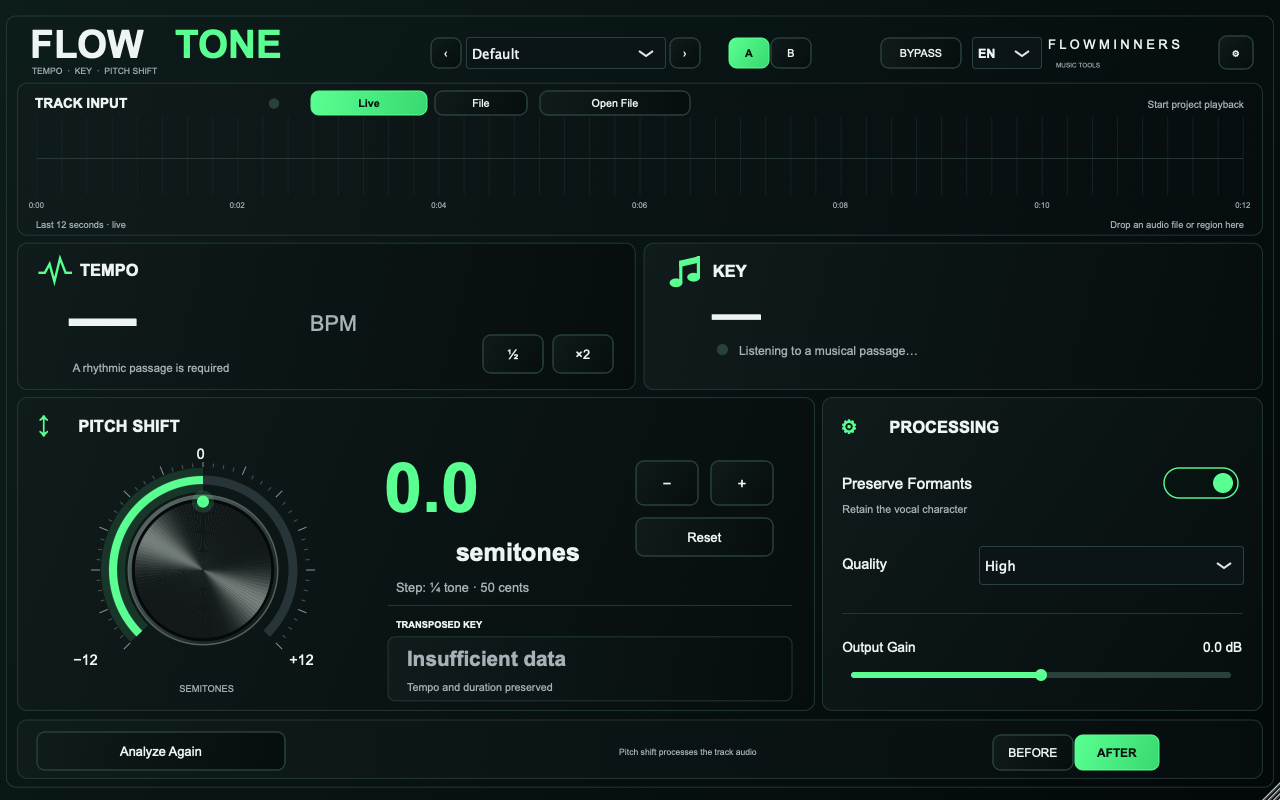
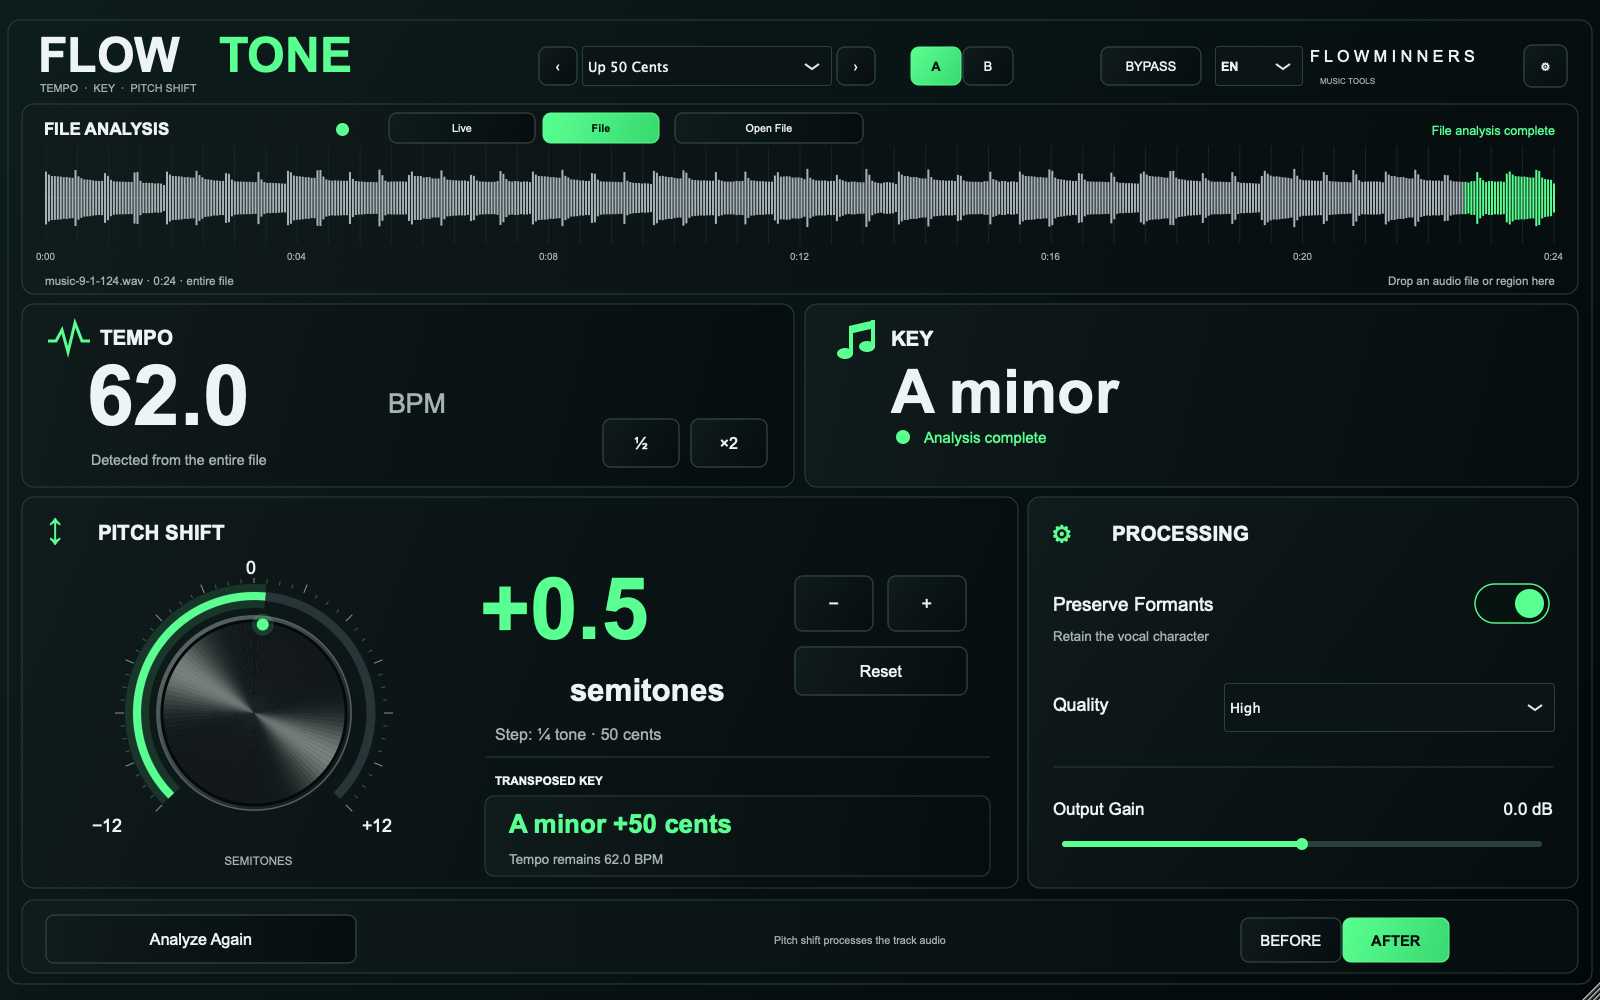
Document bilingual release validation and actual interface layouts

diff --git a/docs/localisation/TESTING.md b/docs/localisation/TESTING.md
@@ -1,0 +1,19 @@
+# FLOWTONE 0.4.0 verification
+
+Compiled source commit: `75e5b6a224779dd9261080db4609a68ae7610df1`. JUCE: `454fe891acc8204f99f4ef1e3a28c84b1a4da145`. Later documentation and installer repackaging commits do not change the compiled plug-in sources.
+
+| Check | Russian | English |
+|---|---|---|
+| Full local processor/analysis regression | PASS | PASS |
+| [Independent macOS CI](https://github.com/Abynarc/FLOWTONE/actions/runs/41633816387) | PASS | PASS |
+| [Windows x64 CI](https://github.com/Abynarc/FLOWTONE/actions/runs/41633816475) | PASS | PASS |
+
+UI checks exercise the actual dropdown in both directions, independent instances, no processing-parameter changes, translated controls/menus/tooltips, 1000/1280/1600-pixel layouts, editor recreation, state loading with an open editor, and old projects without a language property. Catalog coverage: 97 entries. Switching language retains completed file analysis, source selection and processing settings. RU/EN Windows screenshots were inspected.
+
+The processor suite covers pitch/duration/stereo preservation, quality/formant modes, quality transitions, automation, latency-aligned host bypass, variable blocks, real-time allocation guards, A/B and state. Analysis tests cover live/file sources, file formats, cache/repeat/cancellation, retained streams, long intros/outros, ambiguous/variable tempo, 32 rhythmic stress cases and source changes. Worker creation/destruction stress passed 10,000 cycles in each CI language run.
+
+macOS PKG: arm64 + x86_64, minimum macOS 12. Package expansion, signed-payload hashes, ad-hoc signature, install/upgrade scripts on an isolated volume, system and per-user backups, and corrupted-payload rejection passed. The signed AU was loaded directly, its state round-tripped, and 144,000 stereo frames rendered at 48 kHz; the +0.5-semitone pitch test was within 0.25 cents.
+
+Windows: build, install, byte comparison, upgrade backup, pluginval strictness 5, uninstall and backup retention passed. [Final installer repackaging](https://github.com/Abynarc/FLOWTONE/actions/runs/41635813364) replaces the Russian instructions with the current version. It checks the source commit, original artifact hashes and unchanged VST3 binary, and repeats install/upgrade/backup/VST3/uninstall validation. Audio-processing tests refer to the source-identical full CI run above.
+
+Limits: no manual listening or interactive Logic/FL Studio session was performed. The Intel slice was cross-compiled; native Intel Mac hardware was not tested. The macOS package is not Developer ID signed/notarized; Windows has no publisher certificate. Host automation parameter names retain their existing registration independently of the custom editor language.

diff --git a/docs/localisation/DESIGN.md b/docs/localisation/DESIGN.md
@@ -7,6 +7,8 @@ Primary sources:
 - [Synchro Arts: VocAlign interface and operation](https://www.synchroarts.com/manuals/VocAlign6Standard/Manual/HTML/user-interface-and-operation.html): Guide, Dub, Output, Capture and Render.
 - [Synchro Arts: automatic time matching](https://www.synchroarts.com/manuals/VocAlign6Standard/Manual/HTML/adjusting-the-automatic-time-matching.html): tightness, time compression/expansion, and the distinction between Maximum Shift and stretch limits.
 - [Soundtoys: Little AlterBoy manual](https://www.soundtoys.com/wp-content/uploads/Little-AlterBoy-Manual.pdf): Pitch, Formant, semitones, Transpose. FLOWTONE preserves formants; it does not offer an independent Formant Shift knob.
+- [Steinberg: WaveLab Pro operation manual](https://archive.steinberg.help/wavelab_pro/v9.5/en/WaveLab_Pro_9_5_Operation_Manual_en.pdf): Preserve Formants and quality modes.
+- [Eventide: MicroPitch Immersive user guide](https://downloads.eventide.com/audio/manuals/plug-ins/MicroPitch%2BImmersive%2BUser%2BGuide.pdf): Output Gain.
 - [zplane: deCoda quick reference](https://products.zplane.de/uploads/Installers-Manuals/DECODA/deCoda_quick_reference.pdf): detected key, tempo and transposition.
 
 The wording below is a product-specific choice based on the actual controls, not a claim that competing plug-ins have identical algorithms.
@@ -38,3 +40,11 @@ The existing graphite/green design and control placement are retained. A keyboar
 All visible strings, menus, tooltips, dialogs, help, status/error messages and units are covered. Filenames and host track names remain user data. Host automation IDs, parameter order/ranges/defaults and DSP are preserved. Host parameter display names retain their existing registration, since hosts cache these independently of the custom editor.
 
 Catalogs are `Source/Translations.json`. Generated headers must stay in sync. UI tests must exercise the dropdown in both directions, editor recreation, state restoration, old projects, independent instances, both layouts, actual processing and analysis. Final screenshots come from the real JUCE editors.
+
+## Actual editors
+
+The vector layout is the design reference. These images are snapshots of the actual JUCE editors with synthetic audio:
+
+![English interface](en-interface.png)
+
+![Russian interface](ru-interface.png)

diff --git a/README.md b/README.md
@@ -4,7 +4,7 @@
 
 Интерфейс **Русский / English**: переключатель **RU / EN** в верхней панели. Выбор сохраняется в проекте.
 
-![FLOWTONE](docs/images/flowtone.png)
+![FLOWTONE](docs/localisation/ru-interface.png)
 
 - Анализ всего аудиофайла без воспроизведения или онлайн-анализ входа дорожки.
 - Проверка устойчивости BPM, предупреждения о неоднозначном и переменном темпе.
